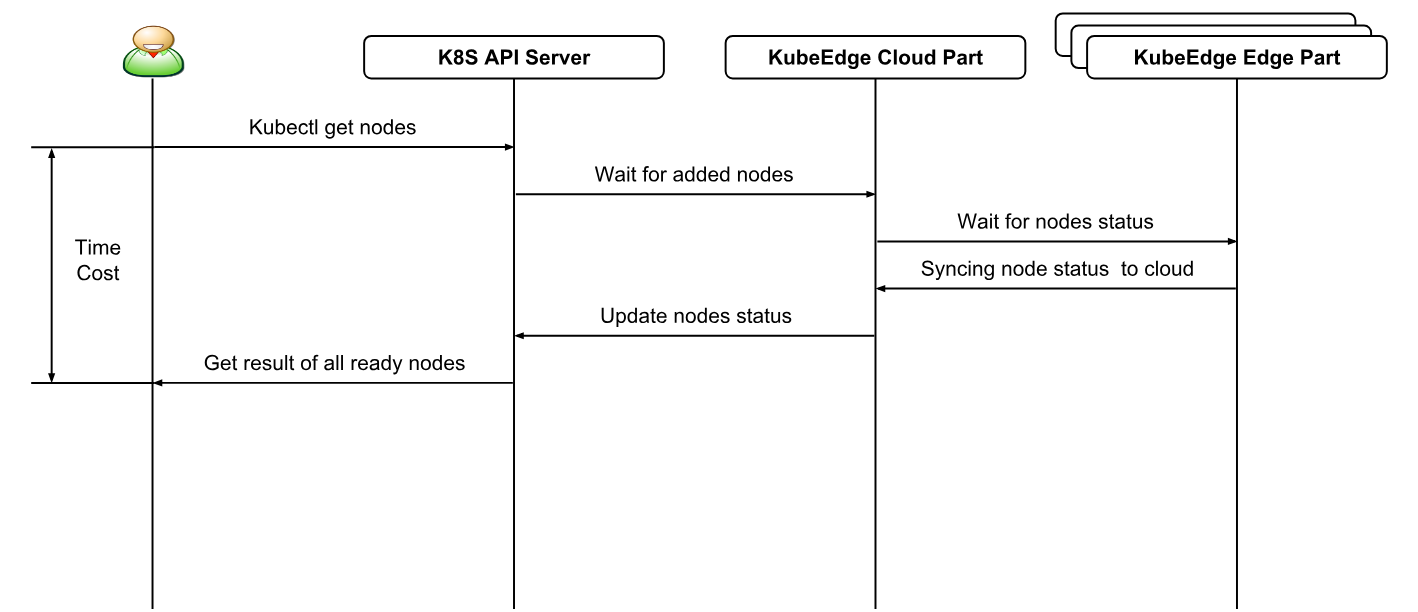
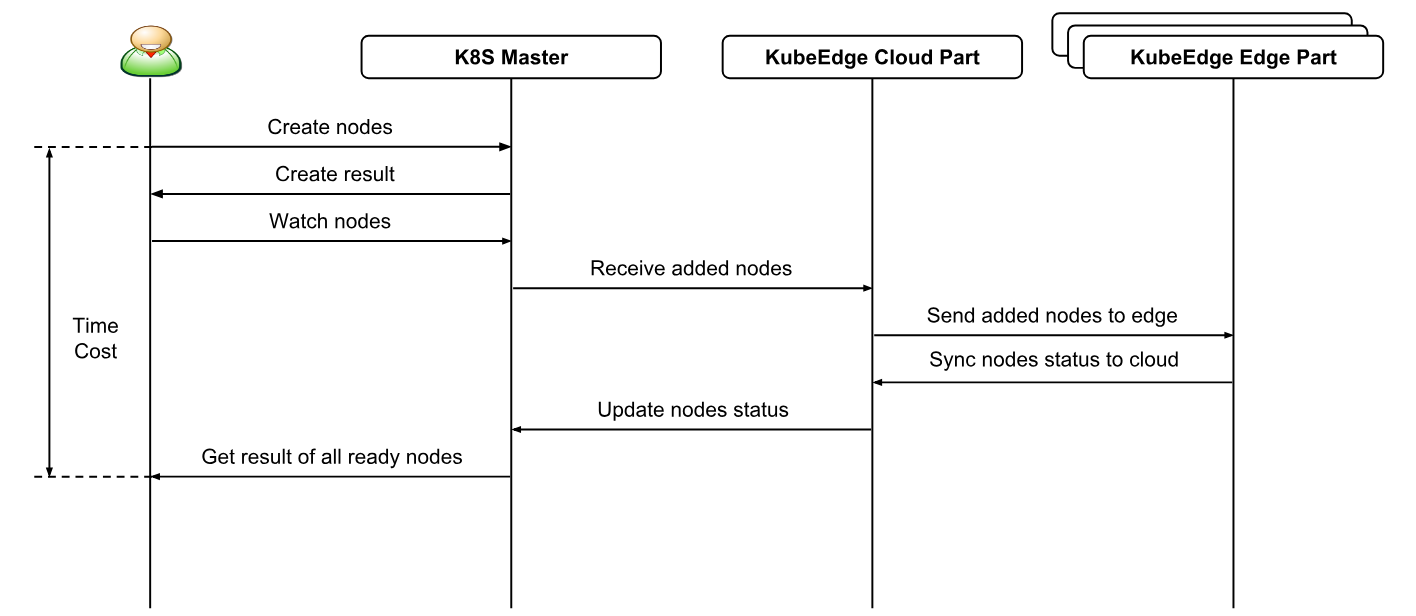
modify workflow graphs

Changed region(s): [[0.0311, 0.0, 0.9633, 0.9935], [0.0311, 0.7451, 0.0621, 0.7761]]

diff --git a/docs/proposals/perf.md b/docs/proposals/perf.md
@@ -84,8 +84,8 @@ Test Cases:
 This scenario is expected to measure the northbound API of KubeEdge.
 
 Test Cases:
-* Measure the latency between K8S API Server and KubeEdge Cloud Part.
-* Measure the throughput between K8S API Server and KubeEdge Cloud Part.
+* Measure the latency between K8S Master and KubeEdge Cloud Part.
+* Measure the throughput between K8S Master and KubeEdge Cloud Part.
 
 ### 3. Report Device Status to Edge
 <img src="../images/perf/perf-report-devicestatus.png">
